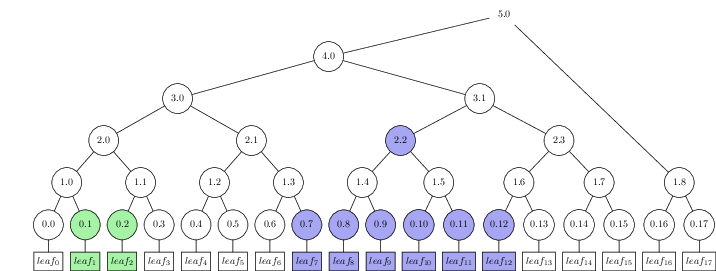
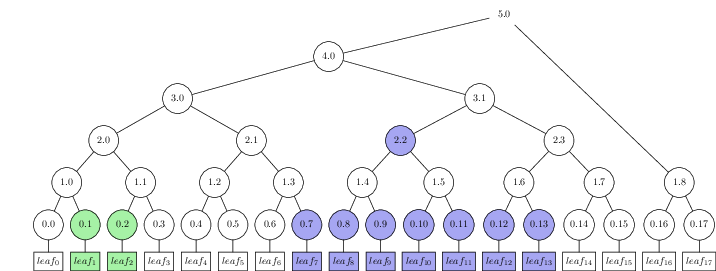
Fixes

Changed region(s): [[0.7067, 0.9151, 0.7989, 1.0], [0.7067, 0.7675, 0.7989, 0.8856]]

diff --git a/docs/merkletree/treetex/README.md b/docs/merkletree/treetex/README.md
@@ -3,9 +3,9 @@ Treetex
 
 `treetex` is a tool for drawing/visualising Merkle trees.
 
-Ensure you have latex installed on your system if you want to this; the tool
+Ensure you have LaTeX installed on your system if you want to this; the tool
 outputs `LaTeX` commands to stdout, and so needs to be used in conjuction with
-that!
+that.
 
 For debian-derived systems, `sudo apt install texlive` should do the trick.
 
@@ -19,20 +19,23 @@ go run github.com/google/trillian/docs/merkletree/treetex | latex
 (if you've not used that much tex - that'll create a file called `texput.pdf`)
 You can use `okular` (or your favourite PDF viewer) to view it.
 
-Use `--tree_size` to, er, set the tree size.
+Use `--tree_size` flag to, er, set the tree size.
 
 
 Features
 --------
-Treetex has a few tricks up its sleeveseses:
+Treetex has a few tricks up its sleeve:
 
 ### Ephemeral nodes
 
-This tool draws trees with all the leaves at the same level as opposed to floating them up to their real level - mainly because this is how the trees in RFC6962 are drawn.
+This tool draws trees with all the leaves at the same level as opposed to
+floating them up to their real level - mainly because this is how the trees in
+RFC6962 are drawn.
 Nodes which aren't yet final are displayed with no border.
 
 ### Large trees
-When drawing 'large' tree sizes, set the --megamode_threshold (default is 4) to "collapse" perfect subtrees with at least this many levels.
+When drawing 'large' tree sizes, set the `--megamode_threshold` flag (default
+is 4) to "collapse" perfect subtrees with at least this many levels.
 
 ```bash
 go run github.com/google/trillian/docs/merkletree/treetex --tree_size=100023 --megamode_threshold=4
@@ -41,7 +44,7 @@ go run github.com/google/trillian/docs/merkletree/treetex --tree_size=100023 --m
 
 
 ### Inclusion proofs
-highlight inclusion proofs
+Highlight an inclusion proof.
 
 ```bash
 go run github.com/google/trillian/docs/merkletree/treetex --tree_size=23 --inclusion=13
@@ -59,7 +62,7 @@ go run github.com/google/trillian/docs/merkletree/treetex --leaf_data='entry1,th
 
 ![leaf data](images/leafdata.png)
 
-### Explain-Merkle-trees-mode
+### Explain-Merkle-trees mode
 Draw diagrams which explain what each node hash is.
 
 ```bash
@@ -72,7 +75,7 @@ go run github.com/google/trillian/docs/merkletree/treetex --tree_size=7 --node_f
 Highlight node which make up (multiple) range proofs
 
 ```bash
-go run github.com/google/trillian/docs/merkletree/treetex --tree_size=18 --ranges=1:3,7:13
+go run github.com/google/trillian/docs/merkletree/treetex --tree_size=18 --ranges=1:3,7:14
 ```
 
 ![compact ranges](images/compactrange.png)
